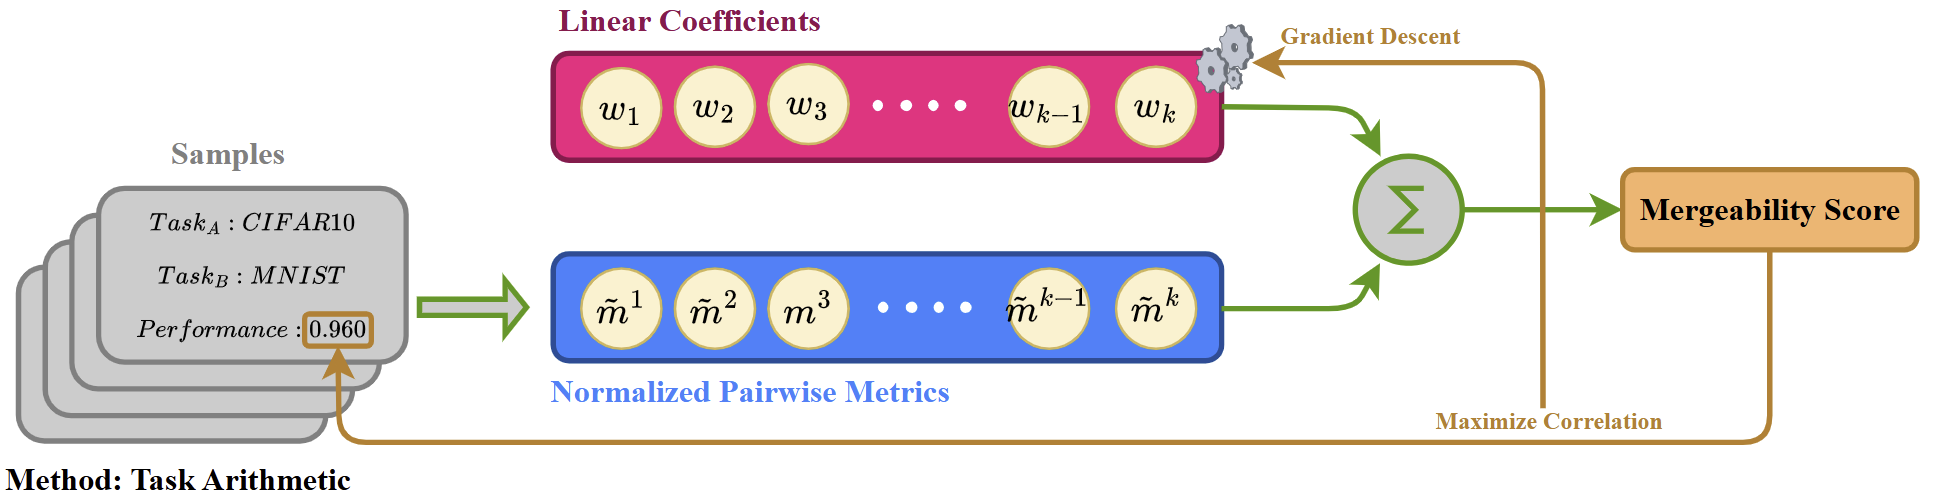
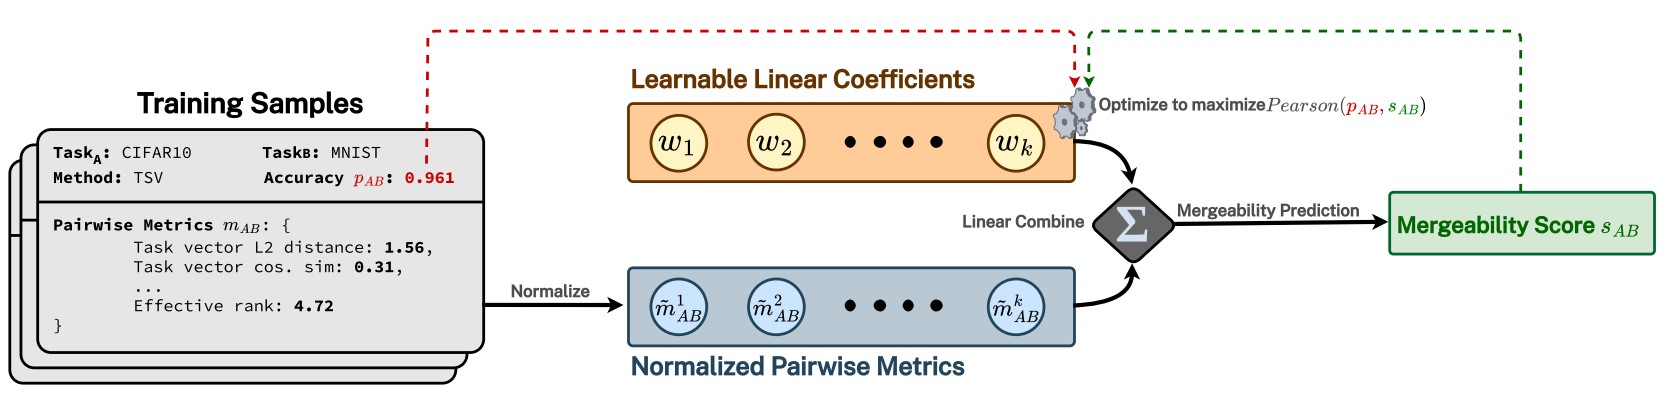
Add publication: Hard or Just Unreached? (AI4Math Workshop, ICML 2026) (#288)
* Add publication: Hard or Just Unreached? Diagnosing the Sampling Blind Spot in Math-Reasoning Difficulty Estimation

AI4Math Workshop at ICML 2026 paper by Zhou, Shah, Rodolà, and Dessì.

* Update zhou-2024-atm publication_short to Workshop and refresh demyst featured image

---------

diff --git a/content/publication/2026-zhou-sampling-blind-spot/index.md b/content/publication/2026-zhou-sampling-blind-spot/index.md
@@ -1,0 +1,38 @@
+---
+# Documentation: https://wowchemy.com/docs/managing-content/
+
+title: "Hard or Just Unreached? Diagnosing the Sampling Blind Spot in Math-Reasoning Difficulty Estimation"
+subtitle: ''
+summary: ''
+authors:
+- zhou
+- Sajel Shah
+- rodola
+- Roberto Dessì
+
+
+tags: []
+categories: []
+date: '2026-06-19'
+lastmod: 2025-02-27T:26:44
+featured: false
+draft: false
+publication_short: "ICML 2026 Workshop AI4Math"
+
+image:
+  caption: ''
+  focal_point: 'Center'
+  preview_only: false
+
+projects: []
+publishDate: '2025-27-02T:26:44'
+publication_types:
+- '1'
+abstract: "Math and science reasoning benchmarks rely on pass@k, the fraction of sampled chains that reach gold, as the canonical per-example difficulty signal. The same signal drives RL with verifiable rewards, math data curation, synthetic curricula, and verifier training. We show this proxy has a persistent blind spot on its hardest stratum: on the eight free-form math cells we test (GSM8K and MATH across four open-weight models), 10.3-22.9% of the examples that no sampling seed solves in six tries are instead solved at matched compute by a six-chain deterministic regime. These are greedy decoding plus five cheap residual-stream perturbations applied via activation grafting, while greedy alone solves at most 6% on these math cells. Recovery scales with the additional budget, across perturbations whose mechanistic distinctness we verify across all twelve cells (cross-kind fix-set Jaccard <= 0.47 in every setup). Activation grafting is used as an intervention on internal representations, not a decoding method; we use it purely as a diagnostic and diversification tool, and our recovered items show that the pass@k= 0 % stratum is structurally identifiable in the residual stream rather than that the unmodified model reaches them under ordinary inference."
+
+links:
+- name: arXiv
+  url : https://arxiv.org/pdf/2606.19636
+
+publication: '*AI4Math Workshop at ICML 2026*'
+---

diff --git a/content/publication/zhou-2024-atm/index.md b/content/publication/zhou-2024-atm/index.md
@@ -17,7 +17,7 @@ date: '2024-11-08'
 lastmod: 2024-11-08T:26:44
 featured: false
 draft: false
-publication_short: "Preprint"
+publication_short: "ICIAP 2025 Breaking the Monolith Workshop"
 
 # Featured image
 # To use, add an image named `featured.jpg/png` to your page's folder.
@@ -37,7 +37,7 @@ publishDate: '2023-10-02T:26:44'
 publication_types:
 - '3'
 abstract: "Model merging has recently emerged as a cost-efficient paradigm for multi-task learning. Among current approaches, task arithmetic stands out for its simplicity and effectiveness. In this paper, we motivate the effectiveness of task vectors by linking them to multi-task gradients. We show that in a single-epoch scenario, task vectors are mathematically equivalent to the gradients obtained via gradient descent in a multi-task setting, and still approximate these gradients in subsequent epochs. Furthermore, we show that task vectors perform optimally when equality is maintained, and their effectiveness is largely driven by the first epoch's gradient. Building on this insight, we propose viewing model merging as a single step in an iterative process that Alternates between Tuning and Merging (ATM). This method acts as a bridge between model merging and multi-task gradient descent, achieving state-of-the-art results with the same data and computational requirements. We extensively evaluate ATM across diverse settings, achieving up to 20% higher accuracy in computer vision and NLP tasks, compared to the best baselines. Finally, we provide both empirical and theoretical support for its effectiveness, demonstrating increased orthogonality between task vectors and proving that ATM minimizes an upper bound on the loss obtained by jointly finetuning all tasks."
-publication: '*arXiv preprint*'
+publication: '*ICIAP 2025 Breaking the Monolith Workshop*'
 links:
 - name: 'arXiv'
   url : https://arxiv.org/abs/2411.03055
